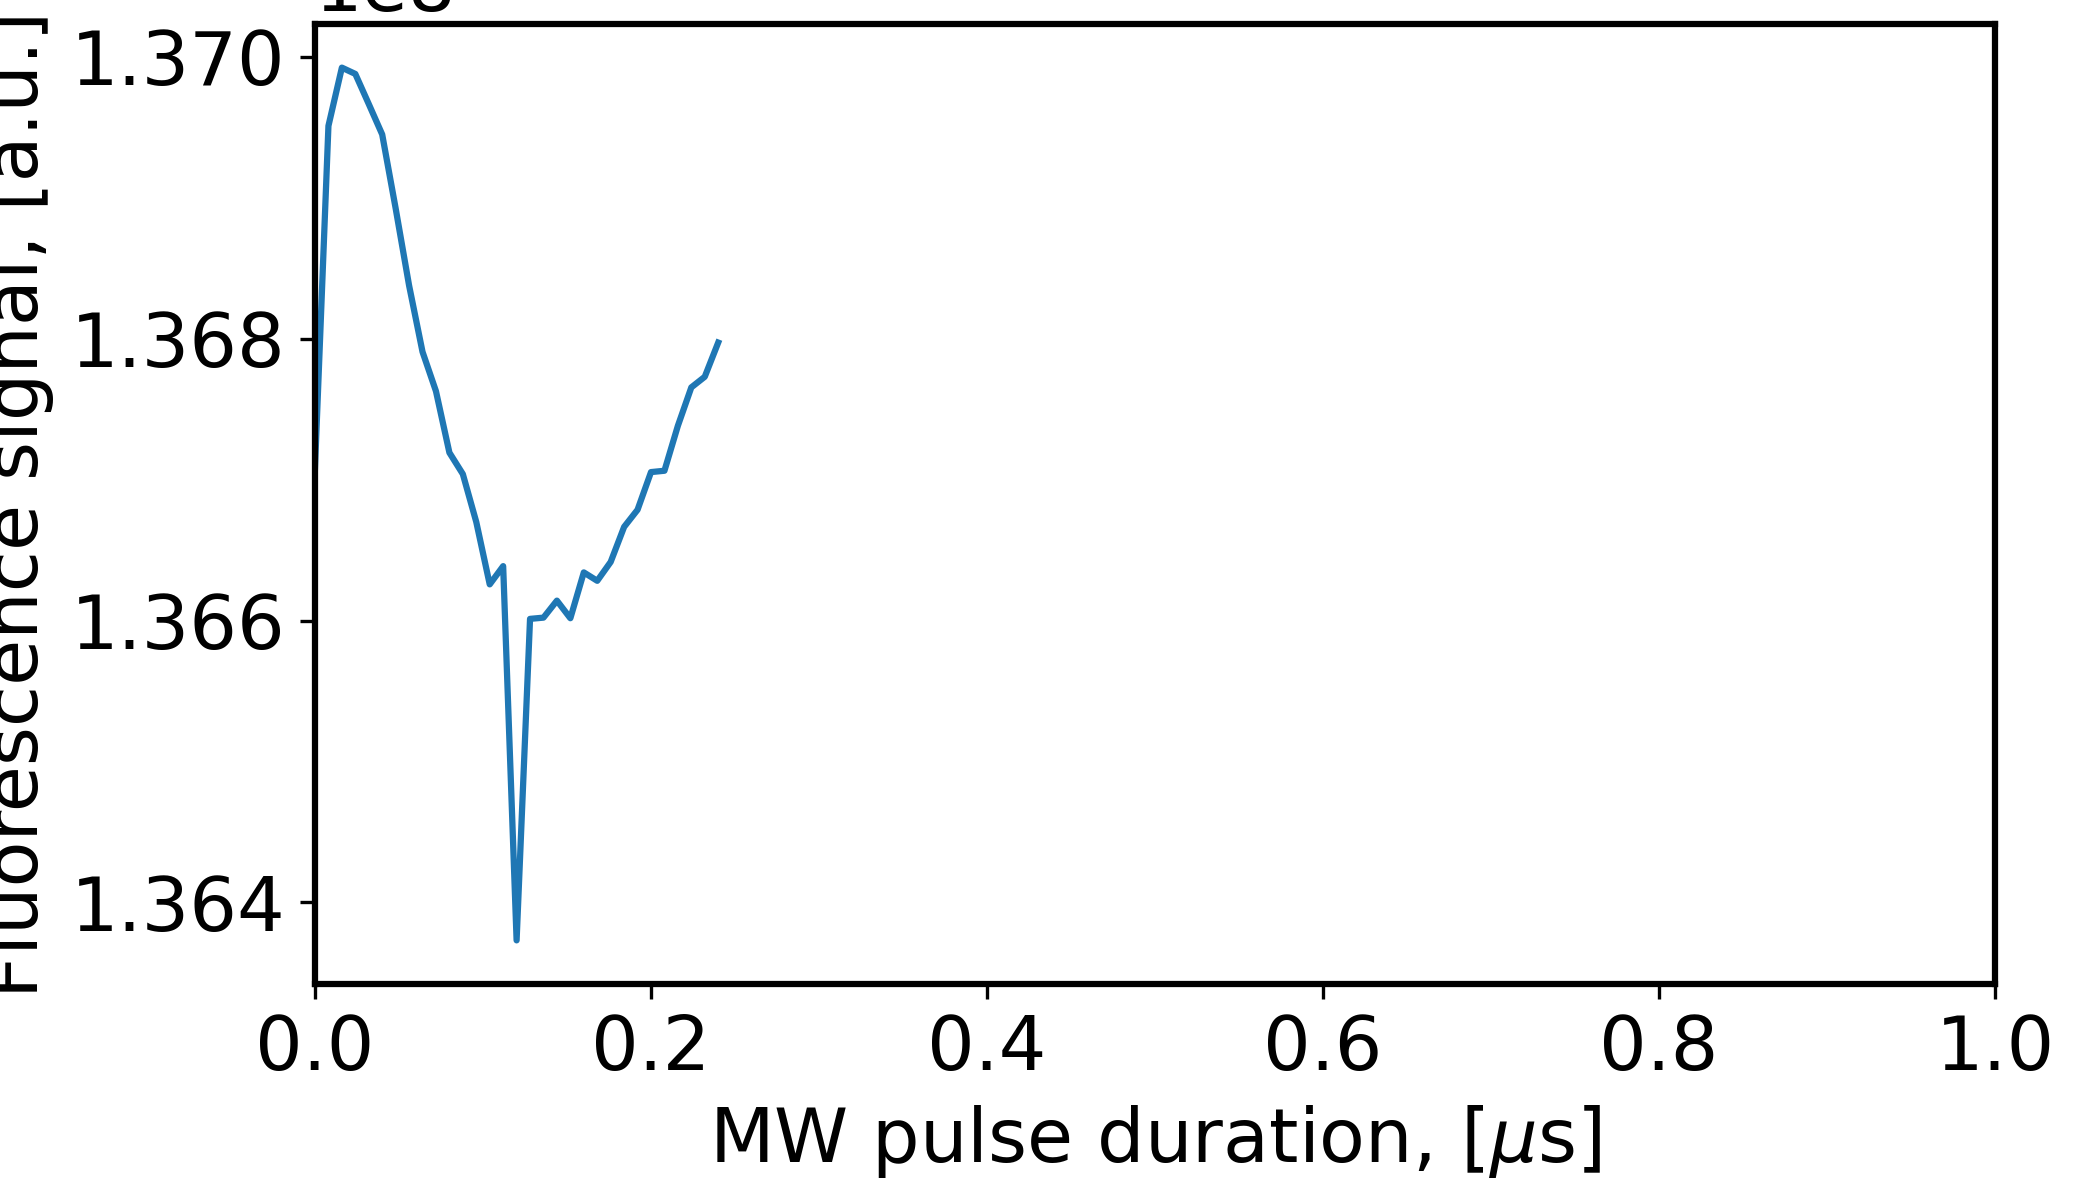
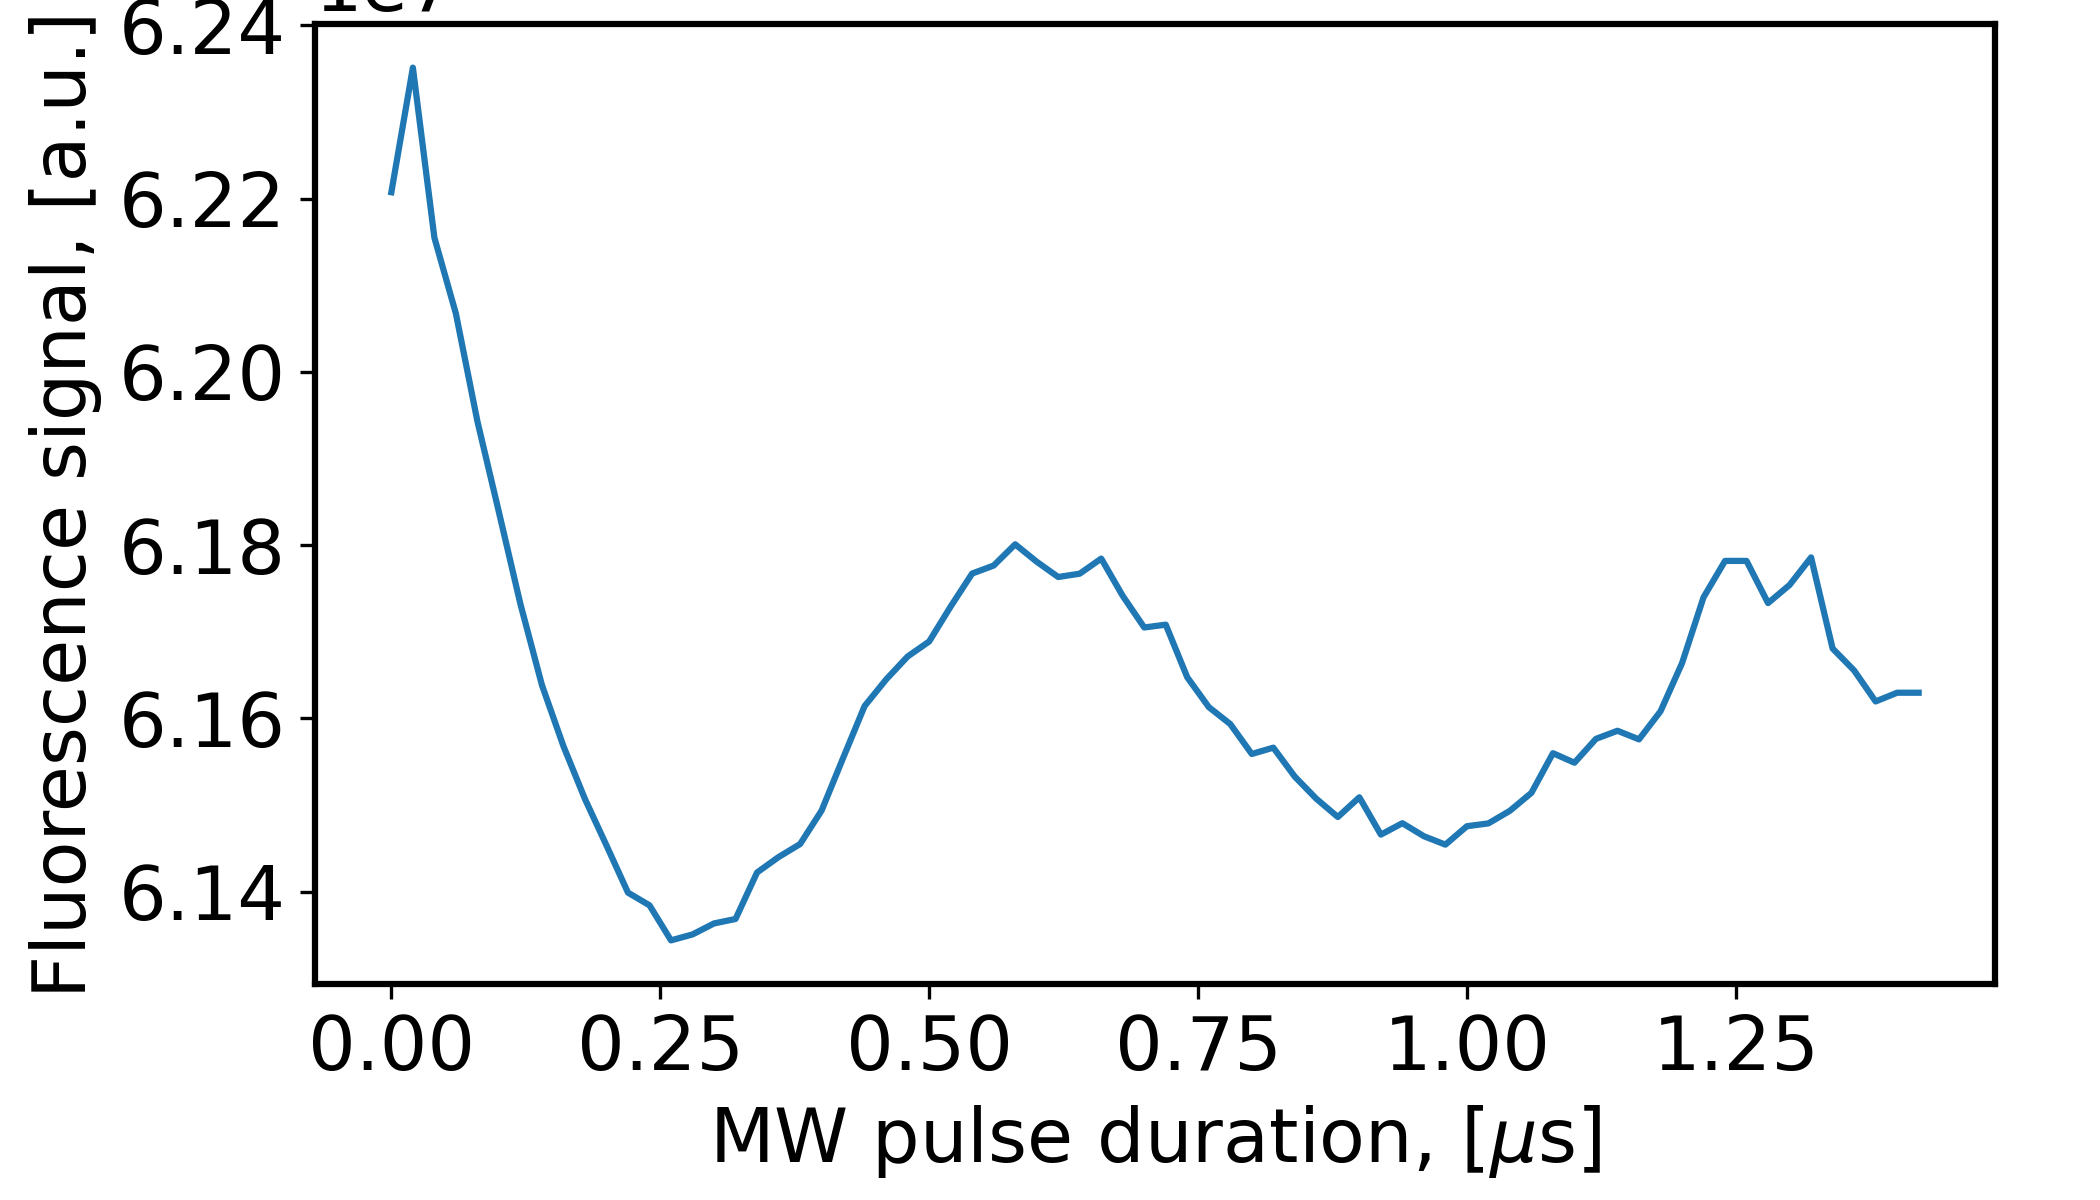
fix bugs, add loader

diff --git a/PulseSequencer/LogicManagers/measurementManager.py b/PulseSequencer/LogicManagers/measurementManager.py
@@ -37,8 +37,6 @@ class measurementManager():
         self.pulseConfigODMR = pulseConfiguration()
         self.microwaveODMRConfig = microwaveConfiguration()
         self.HaveODMRData = False
-        self.ODMRXAxisLabel = "Frequency [MHz]"
-        self.ODMRYAxisLabel = "Photons Counted"
         self.ODMRData = None
         self.measurementCountODMR = 0
         self.initializeODMRData()
@@ -47,8 +45,6 @@ class measurementManager():
         self.pulseConfigRabi = pulseConfiguration()
         self.microwaveRabiConfig = microwaveConfiguration()
         self.HaveRabiData = False
-        self.RabiXAxisLabel = "Time [micro seconds]"
-        self.RabiYAxisLabel = "Photons Counted"
         self.RabiData = None
         self.measurementCountRabi = 0
         self.initializeRabiData()
@@ -62,7 +58,6 @@ class measurementManager():
         self.repeatMeasurement = True
 
         self.maxRepetitions = None
-        self.size = 2048  # number of samples to show on the plot # max size
         self.initializeBufferODMR()
 
         # Events 
@@ -75,23 +70,21 @@ class measurementManager():
 
     # Data Methods
     def initializeBufferODMR(self):
-        self.size = 2048
-        self.redPitaya.initalizeBuffer(self.size * 4)  # not sure why 4...
+        self.redPitaya.initializeBufferODMR()
         self.initializeODMRData()
 
     def initializeBufferRabi(self):
-        self.size = 1024
-        self.redPitaya.initalizeBuffer(self.size * 4)  # not sure why 4...
+        self.redPitaya.initializeBufferRabi()
         self.initializeRabiData()
 
     def initializeODMRData(self):
         self.HaveODMRData = False
         self.measurementCountODMR = 0
-        self.ODMRData = pd.DataFrame(0, index=np.arange(1024), columns=[self.ODMRXAxisLabel, self.ODMRYAxisLabel])
+        self.ODMRData = pd.DataFrame(0, index=np.arange(1024), columns=[self.redPitaya.ODMRXAxisLabel, self.redPitaya.ODMRYAxisLabel])
 
     def initializeRabiData(self):
         self.HaveRabiData = False
-        self.RabiData = pd.DataFrame(0, index=np.arange(1024), columns=[self.RabiXAxisLabel, self.RabiYAxisLabel])
+        self.RabiData = pd.DataFrame(0, index=np.arange(1024), columns=[self.redPitaya.RabiXAxisLabel, self.redPitaya.RabiYAxisLabel])
 
     def updateMicrowaveODMRConfig(self, config : microwaveConfiguration):
         self.microwaveODMRConfig = config
@@ -161,10 +154,7 @@ class measurementManager():
         if self.pulseBlaster.isConnected:
             self.pulseBlaster.disconnect()
 
-    def microwaveDeviceConnectionToggle(self, config=None):
-        if config is not None:
-            self.microwaveConfig = config
-
+    def microwaveDeviceConnectionToggle(self):
         if self.microwaveDevice.getIsConnected():
             self.microwaveDevice.disconnect()
         else:
@@ -287,23 +277,23 @@ class measurementManager():
 
     # Data Convertion
     def saveODMRDataToDataFrame(self, data):
-        xData = np.linspace(self.microwaveODMRConfig.startFreq, self.microwaveODMRConfig.stopFreq, int(self.size / 2))
-        yData = data
-
         # Add the recived data to the stored data if needed
         if self.repetition == repetition.RepeatAndSum:
-            yData = self.ODMRData[self.ODMRYAxisLabel].tolist() + data
-
-        self.ODMRData = pd.DataFrame({self.ODMRXAxisLabel: xData, self.ODMRYAxisLabel: yData})
+            self.ODMRData = self.sumTwoDataframes(self.ODMRData, data)
+        else:
+            self.ODMRData = data
+        #     yData = self.ODMRData[self.ODMRYAxisLabel].tolist() + data
+        # self.ODMRData = pd.DataFrame({self.ODMRXAxisLabel: xData, self.ODMRYAxisLabel: yData})
         self.HaveODMRData = True
+    
+    def sumTwoDataframes(self, df1, df2):
+        # Sum the two y columns and create a new dataframe
+        df_sum = pd.DataFrame({df2.columns[0]: df2.iloc[:, 0], df2.columns[1]: df1.iloc[:, 1] + df2.iloc[:, 1]})
+        
+        return df_sum
 
     def saveRabiDataToDataFrame(self, data):
-        dataToPlot = np.array(data[0:int(self.size)], dtype=float)
-
-        xData = np.arange(0, len(dataToPlot) * self.redPitayaTimeStep, self.redPitayaTimeStep)
-        yData = dataToPlot
-
-        self.RabiData = pd.DataFrame({self.RabiXAxisLabel: xData, self.RabiYAxisLabel: yData})
+        self.RabiData = data
         self.HaveRabiData = True
 
     # Register Events
@@ -391,13 +381,14 @@ class measurementManager():
     def receiveDataHandler(self, data):
         try:
             if self.measurementType == measurementType.ODMR:
-                converted_data = self.redPitaya.convertODMRData(data, self.size)
-                self.saveODMRDataToDataFrame(converted_data)
+                converted_dataframe = self.redPitaya.convertODMRData(data, self.microwaveODMRConfig)
+                self.saveODMRDataToDataFrame(converted_dataframe)
                 self.measurementCountODMR += 1
                 self.raiseODMRDataRecivedEvent()
 
             if self.measurementType == measurementType.RabiPulse:
-                self.saveRabiDataToDataFrame(data)
+                converted_dataframe = self.redPitaya.convertRabiData(data)
+                self.saveRabiDataToDataFrame(converted_dataframe)
                 self.measurementCountRabi += 1
                 self.raiseRabiDataRecivedEvent()
         except Exception as ex:

diff --git a/PulseSequencer/Interfaces/dataSaver.py b/PulseSequencer/Interfaces/dataSaver.py
@@ -18,13 +18,17 @@ class dataSaver():
 
         self.basePath = path.join(r'D:\Experiments', str(self.currentDate))
         self.ODMRFolder = path.join(self.basePath, "ODMR")
-        self.rabiFolder = path.join(self.basePath, "Rabi")
+        self.rabiFolder = path.join(self.basePath, "Pulse_Sqeunce")
+        self.scanFolder = path.join(self.basePath, "Scans")
 
     def getODMRFolderToSave(self):
         return self.ODMRFolder
 
     def getRabiFolderToSave(self):
         return self.rabiFolder
+
+    def getScansFolderToSave(self):
+        return self.scanFolder
 
     def setODMRFolderToSave(self, newPath):
         # # if path.realpath(newPath):
@@ -39,30 +43,32 @@ class dataSaver():
     def saveODMR(self, comment):
         data = self.measurmentManager.ODMRData
         pulseConfig = self.measurmentManager.pulseConfigODMR
-        number_of_iterations = self.measurmentManager.ODMRIndex
+        number_of_iterations = self.measurmentManager.measurementCountODMR
+        microwaveConfig = self.measurmentManager.microwaveODMRConfig
 
         metadata = {'Measurement type:': measurementType.ODMR.name,
                 'RF Power [dBm]:': pulseConfig.microwave_power,
                 'Measurment Duration [us]:': pulseConfig.count_duration * redPitayaInterface.timeStep,
                 'Comment:': comment,
-                'Scan Start Frequency [MHz]:': pulseConfig.startFreq,
-                'Scan Stop Frequency [MHz]:': pulseConfig.stopFreq,
+                'Scan Start Frequency [MHz]:': microwaveConfig.startFreq,
+                'Scan Stop Frequency [MHz]:': microwaveConfig.stopFreq,
                 'Number of Iterations:' : number_of_iterations}
 
         filePath = os.path.join(self.ODMRFolder, str(self.ODMRIndex) + ".pkl")
 
-        self.save(filePath, filePath, metadata, data)
+        self.savePickle(filePath, metadata, data)
         self.ODMRIndex += 1
 
     def saveRabiPulse(self, comment):
         data = self.measurmentManager.RabiData
         pulseConfig = self.measurmentManager.pulseConfigRabi
+        microwaveConfig = self.measurmentManager.microwaveRabiConfig
 
         metadata = {'Measurement type': measurementType.RabiPulse.name,
                 'RF Power [dBm]': pulseConfig.microwave_power,
                 'Measurement Duration [us]': pulseConfig.count_duration * redPitayaInterface.timeStep,
                 'Comment': comment,
-                'MW frequency [MHz]': pulseConfig.CenterFreq,
+                'MW frequency [MHz]': microwaveConfig.centerFreq,
                 'Pump pulse time [us]': pulseConfig.pump_start,
                 'Pump pulse duration [us]': pulseConfig.pump_duration * redPitayaInterface.timeStep,
                 'MW pulse time [us]': pulseConfig.microwave_start * redPitayaInterface.timeStep,
@@ -72,9 +78,9 @@ class dataSaver():
                 'Readout pulse time [us]': pulseConfig.readout_start * redPitayaInterface.timeStep,
                 'Averages Number': pulseConfig.iterations}
    
-        filePath = os.path.join(self.rabiFolder, str(self.rabiFolder) + ".pkl")
+        filePath = os.path.join(self.rabiFolder, str(self.rabiIndex) + ".pkl")
 
-        self.savePickle(filePath, filePath, metadata, data)
+        self.savePickle(filePath, metadata, data)
         self.rabiIndex += 1
 
     def savePickle(self, filePath, metadata, data : pd.DataFrame):

diff --git a/Rabi/rabi_plot_rabi_sequence_type.py b/Rabi/rabi_plot_rabi_sequence_type.py
@@ -11,8 +11,8 @@ plt.rcParams['font.size'] = 18
 plt.rcParams['axes.linewidth'] = 1.5
 
 # path properties
-path_name = str(r'D:\Experiments\2023-11-08')
-file_name = str(r'\30.csv')
+path_name = str(r'D:\Experiments\2023-12-06B')
+file_name = str(r'\0.csv')
 number_files = len(os.listdir(path_name))
 
 # integration boundaries
@@ -47,30 +47,30 @@ for i in range(0, number_files):
     result[i] = np.sum(counts[start_1:end_1])
 
 # time array
-time_step = 0.008                       # [us]
+time_step = 0.02                       # [us]
 time = np.arange(0, len(result)*time_step, time_step)
-fit_time = np.linspace(0, 1.5, 1000)
+# fit_time = np.linspace(0, 1.5, 1000)
 
 
 def fit_func(t, a, omega, T, phi, b, f):
     return (a - b * np.cos(omega * t + phi)) * np.exp(-t / T) + f
 
 # fitting
-init_guess = np.array([1.1e8, 0.0009, 0.2, 3.14, 0, 1e8])
-popt, pcov = curve_fit(fit_func, time, result, init_guess)
+# init_guess = np.array([1.1e8, 0.0009, 0.2, 3.14, 0, 1e8])
+# popt, pcov = curve_fit(fit_func, time, result, init_guess)
 
 # plotting
 fig2 = plt.figure(figsize=(7, 4))
 ax = fig2.add_axes([0.15, 0.18, 0.8, 0.8])
 ax.plot(time, result, c='tab:blue')
-ax.plot(fit_time, fit_func(fit_time, *popt), c='tab:red')
+# ax.plot(fit_time, fit_func(fit_time, *popt), c='tab:red')
 ax.set_xlabel(r'MW pulse duration, [$\mu$s]')
 ax.set_ylabel(r'Fluorescence signal, [a.u.]')
-ax.set_xlim([np.amin(fit_time), np.amax(fit_time)])
-ax.text(0.9, 1.20, r'$\Omega$ = ' + str(np.round(popt[1], 2)) + r' $\pm$ ' + str(np.round(np.sqrt(np.diag(pcov))[1], 2)) + r' MHz')
-ax.text(0.9, 1.14, r'$T_2$ = ' + str(np.round(popt[2], 2)) + r' $\pm$ ' + str(np.round(np.sqrt(np.diag(pcov))[2], 2)) + r' $\mu$s')
+# ax.set_xlim([np.amin(fit_time), np.amax(fit_time)])
+# ax.text(0.9, 1.20, r'$\Omega$ = ' + str(np.round(popt[1], 2)) + r' $\pm$ ' + str(np.round(np.sqrt(np.diag(pcov))[1], 2)) + r' MHz')
+# ax.text(0.9, 1.14, r'$T_2$ = ' + str(np.round(popt[2], 2)) + r' $\pm$ ' + str(np.round(np.sqrt(np.diag(pcov))[2], 2)) + r' $\mu$s')
 
-print(popt)
+# print(popt)
 #print(pcov)
 
 plt.savefig('Rabi_oscillations.png', dpi=300)

diff --git a/PulseSequencer/pulseSequencerV4.py b/PulseSequencer/pulseSequencerV4.py
@@ -228,7 +228,7 @@ class PhaseLockedLoop(QMainWindow, Ui_PhaseLockedLoop):
     def clearAndStartODMR(self):
         try:
             self.lblCurrentRepetetion.setText('0')
-            microwave_config = self.createRabiMicrowaveConfig()
+            microwave_config = self.createODMRMicrowaveConfig()
             pulse_config = self.createPulseConfiguration()
             repeat = repetition[self.repetitionComboBox.currentText()]
 
@@ -397,8 +397,8 @@ class PhaseLockedLoop(QMainWindow, Ui_PhaseLockedLoop):
             # self.axes2.clear()
             self.axesODMR.grid()
 
-            x_label = self.measurementManager.ODMRXAxisLabel
-            y_label = self.measurementManager.ODMRYAxisLabel
+            x_label = data.columns[0]
+            y_label = data.columns[1]
 
             # plot
             self.curveODMR, = self.axesODMR.plot(data[x_label], data[y_label], linewidth=0.5, c='black', label="Normalized signal")
@@ -423,8 +423,8 @@ class PhaseLockedLoop(QMainWindow, Ui_PhaseLockedLoop):
             self.axesRabi1.grid()
 
             # plot
-            xLabel = self.measurementManager.RabiXAxisLabel
-            yLabel = self.measurementManager.RabiYAxisLabel
+            xLabel = data.columns[0]
+            yLabel = data.columns[1]
 
             self.curveRabi1 = self.axesRabi1.scatter(data[xLabel], data[yLabel], s=1, c='black')
             self.curveRabi2 = self.axesRabi1.plot(data[xLabel], data[yLabel], linewidth=0.5, c='black')

diff --git a/Rabi/rabi_plot_rabi_sequence_type_v2.py b/Rabi/rabi_plot_rabi_sequence_type_v2.py
@@ -11,7 +11,7 @@ plt.rcParams['font.size'] = 18
 plt.rcParams['axes.linewidth'] = 1.5
 
 # path properties
-path_name = str(r'E:\Diamond\Diamond Experiments\2023-11-08')
+path_name = str(r'D:\Experiments\2023-12-10')
 file_name = str(r'\0.csv')
 number_files = len(os.listdir(path_name))
 result = np.zeros(number_files, dtype=float)
@@ -23,17 +23,17 @@ for i in range(0, number_files):
     file_name = r'/' + str(i) + '.csv'
     file_data = pd.read_csv(path_name + file_name, skiprows=14, dtype=float)
     counts = file_data['Photon counts number'].astype(float)
-    start_1 = int(340 + counts[340:].argmax())
+    start_1 = int(340 + counts[340:355].argmax())
     end_1 = start_1 + step
     start_2 = end_1 + 370
     end_2 = start_2 + step
     A = np.sum(counts[start_1:end_1])
     B = np.sum(counts[start_2:end_2])
     result[i] = (A - B)/(A + B)
-    #print(A, B, result[i])
+    print(A, B, result[i])
 
 # time array
-time_step = 0.008                       # [us]
+time_step = 0.02                       # [us]
 time = np.arange(0, len(result)*time_step, time_step)
 fit_time = np.linspace(0, 1.5, 1000)
 

diff --git a/PulseSequencer/LogicManagers/scanManager.py b/PulseSequencer/LogicManagers/scanManager.py
@@ -44,7 +44,7 @@ class scanManager():
         self.continueCurrentScan()
 
     def extractPointFromPulseSequence(self, pulseSequence):
-        
+        pass
 
     def continueCurrentScan(self):
         if not self.isMeasurementActive:
